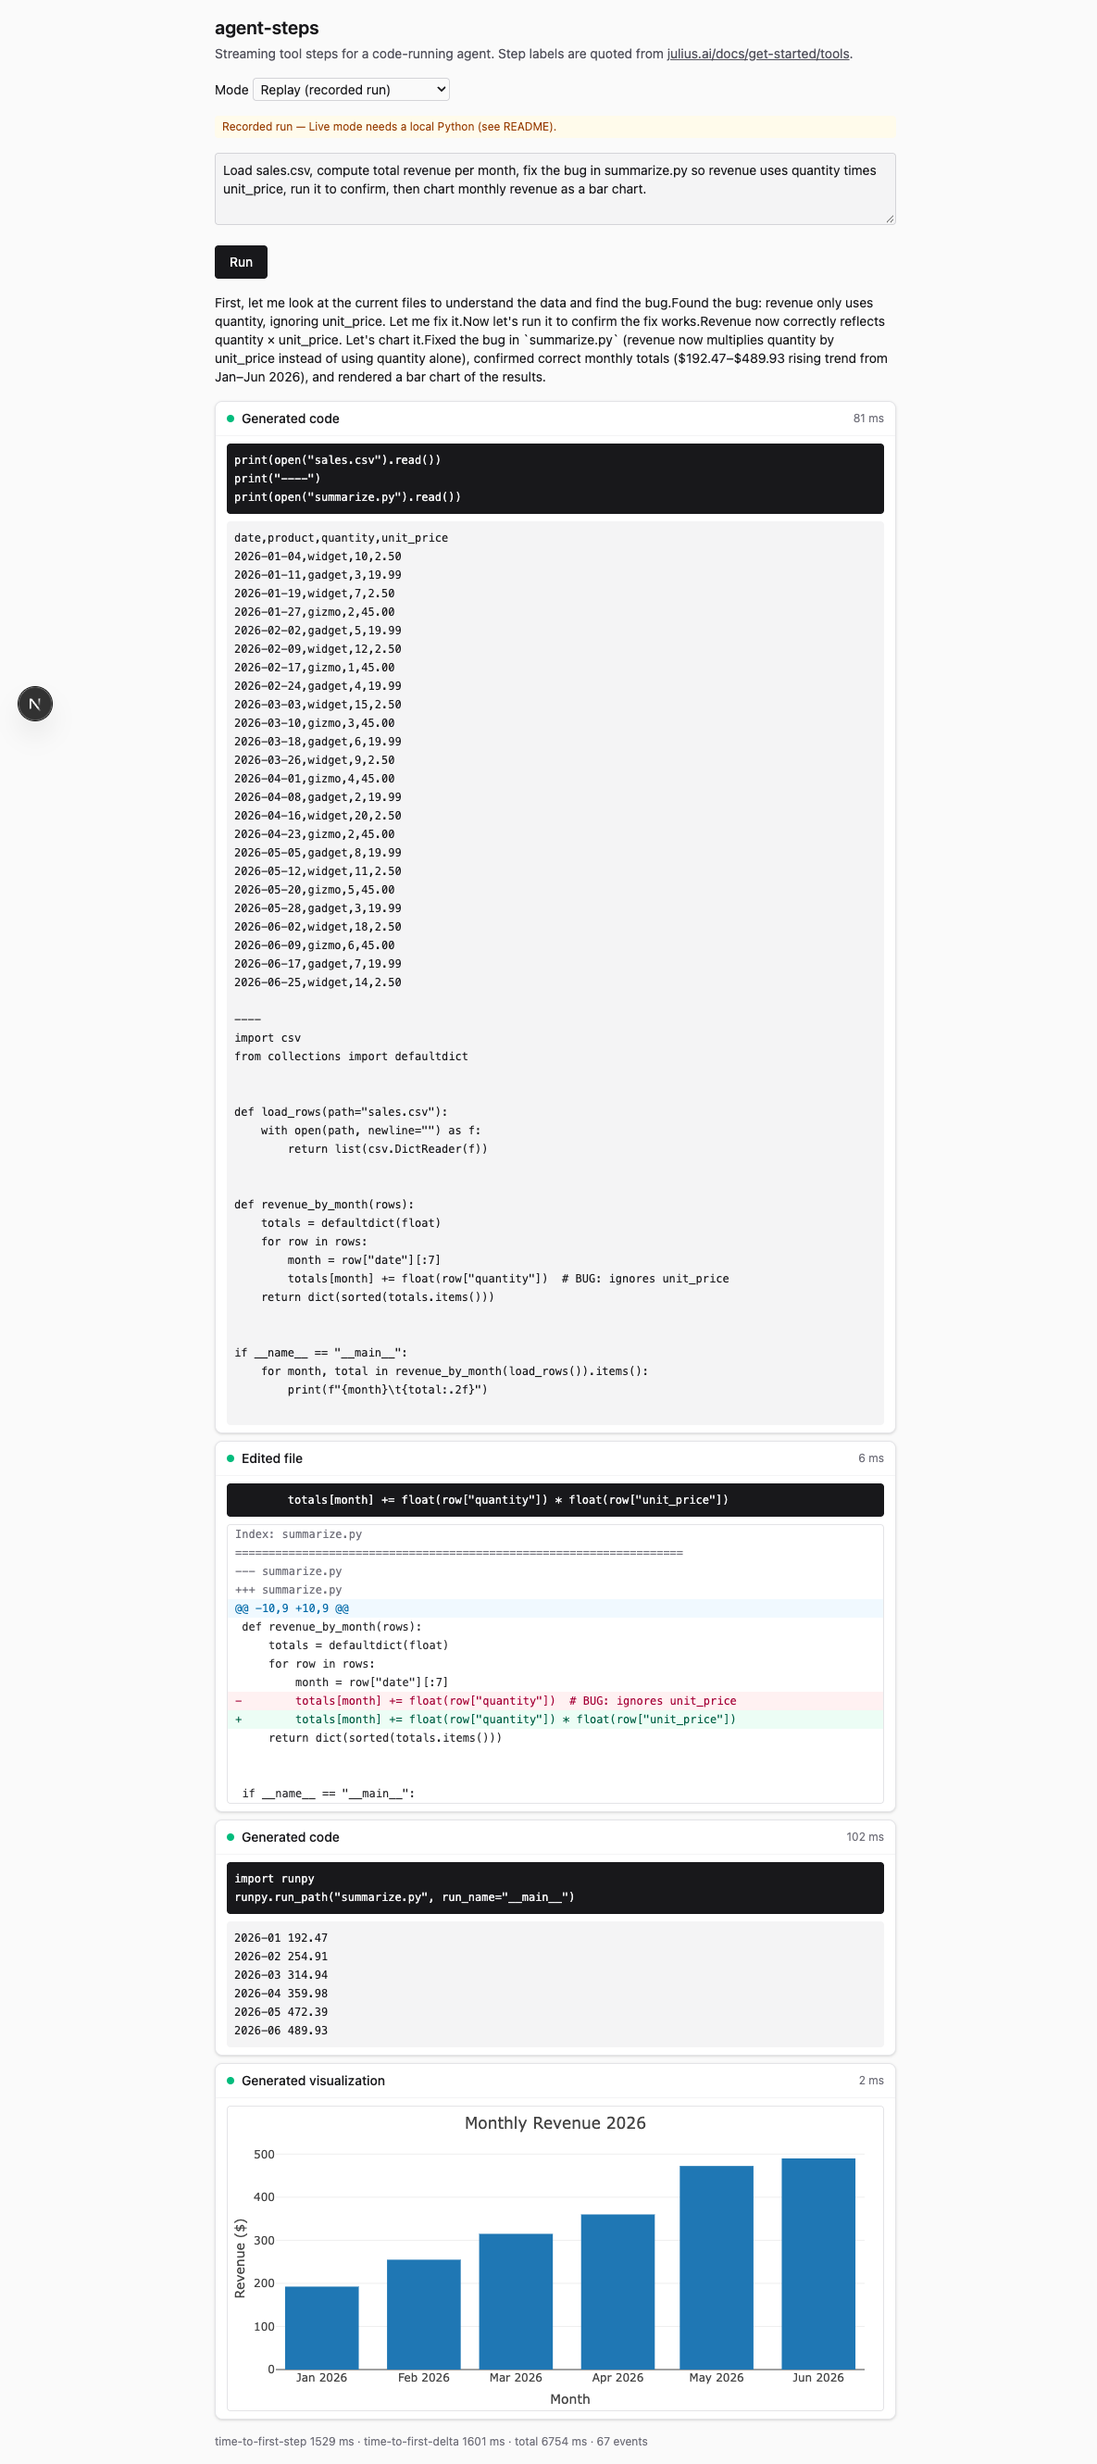
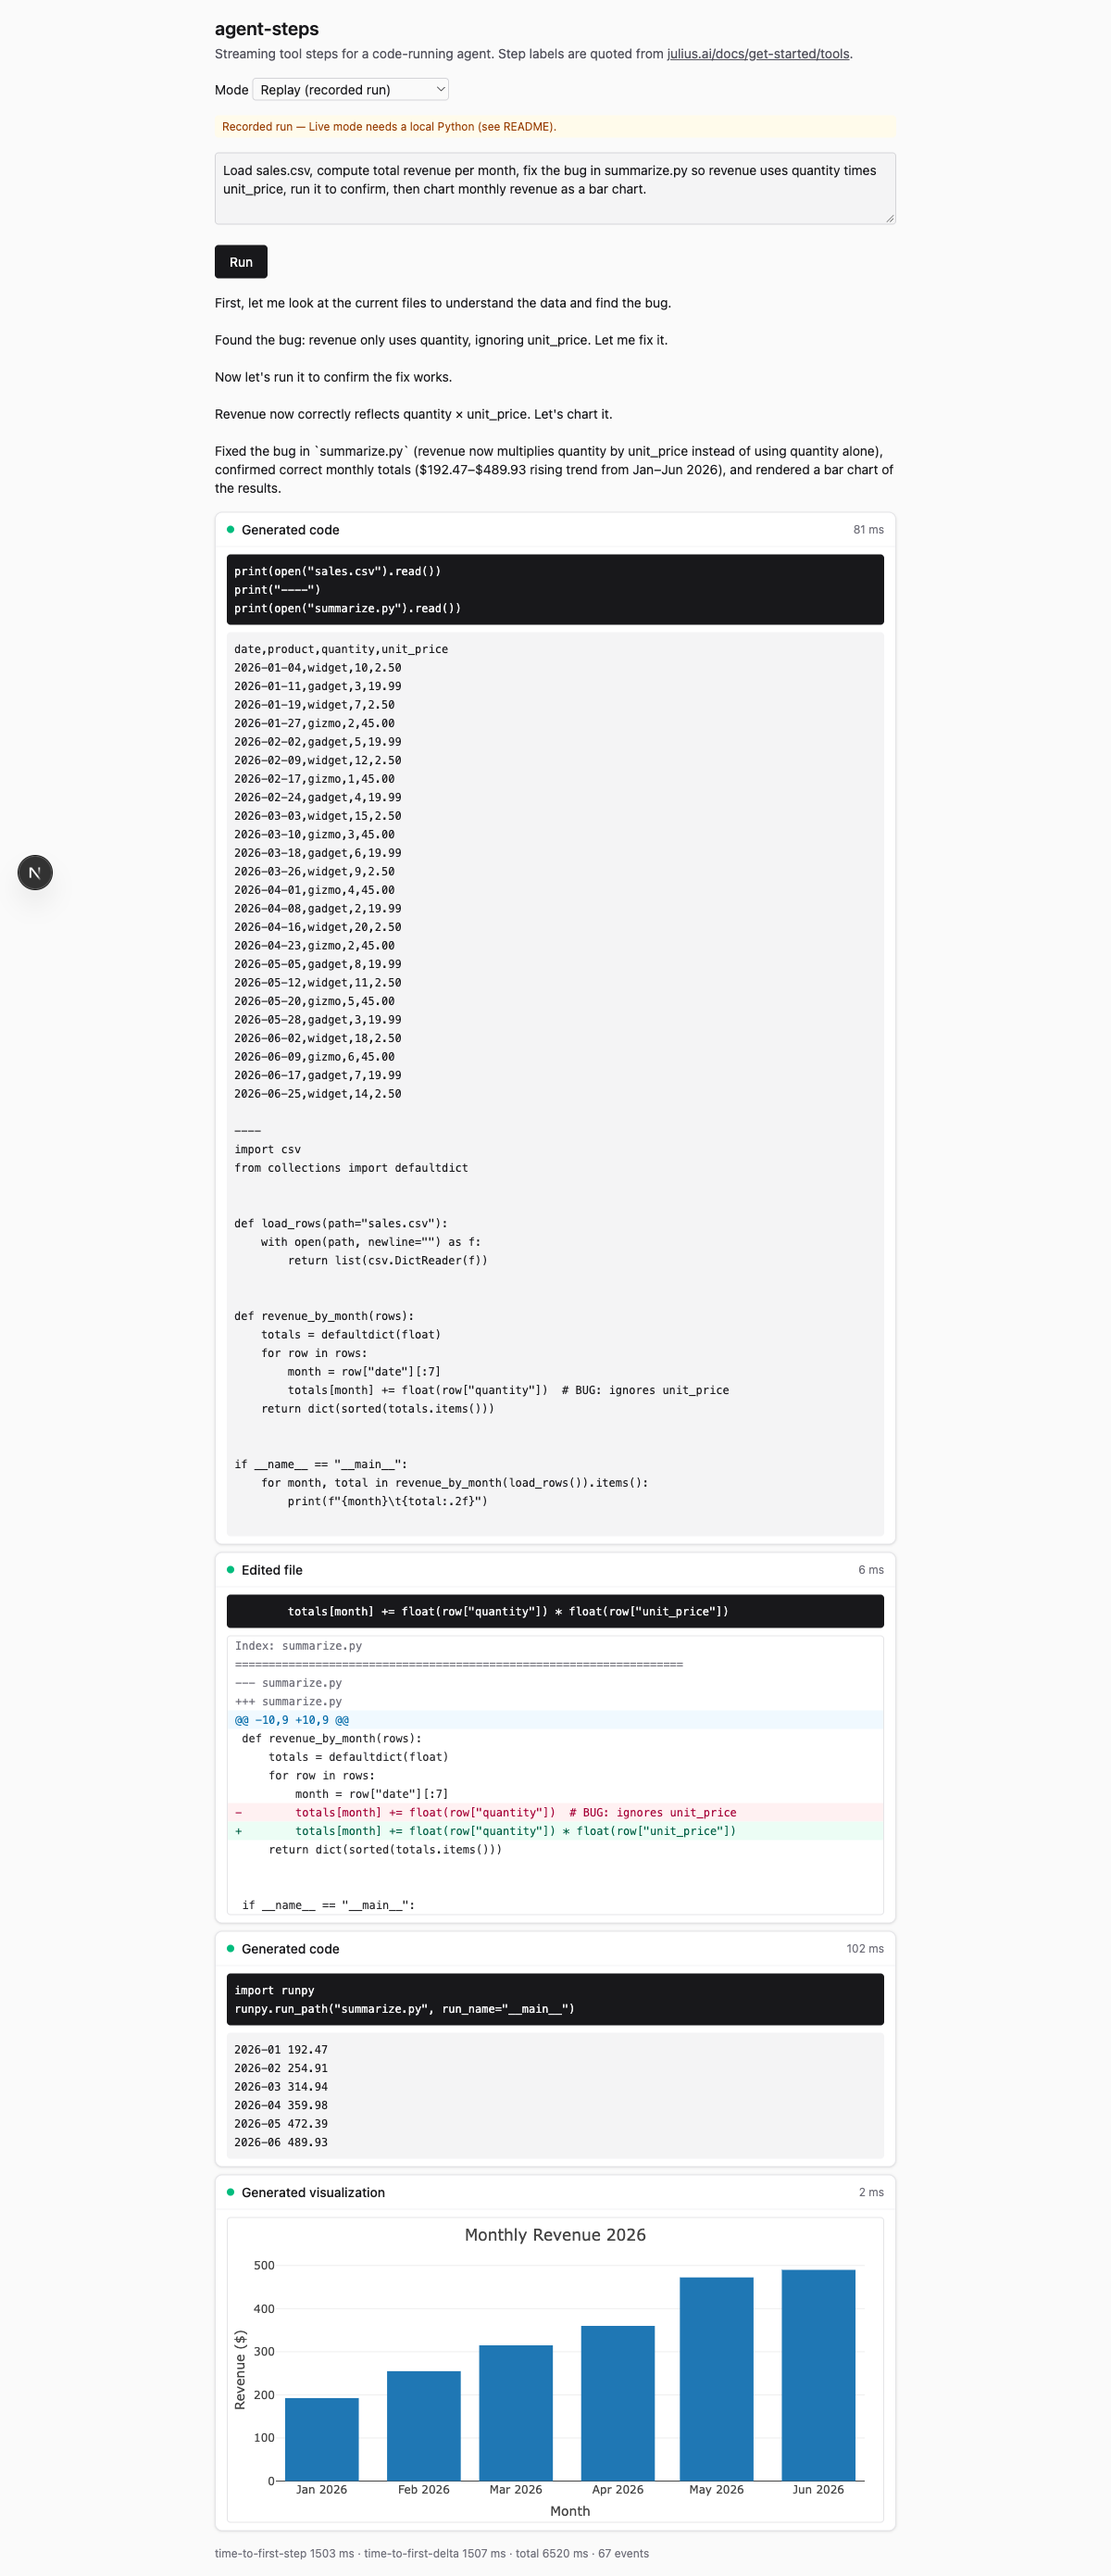
docs: re-record the demo GIF and screenshots after the fix wave

diff --git a/README.md b/README.md
@@ -40,7 +40,7 @@ The Vercel deploy is replay-only: the server never runs Python there. Set no env
 
 ## Demo
 
-![Demo (recorded run replayed at half speed, condensed to 21 s)](docs/demo.gif)
+![Demo (recorded run replayed at half speed, condensed to 22 s)](docs/demo.gif)
 
 ## Performance (from docs/perf.md)
 
